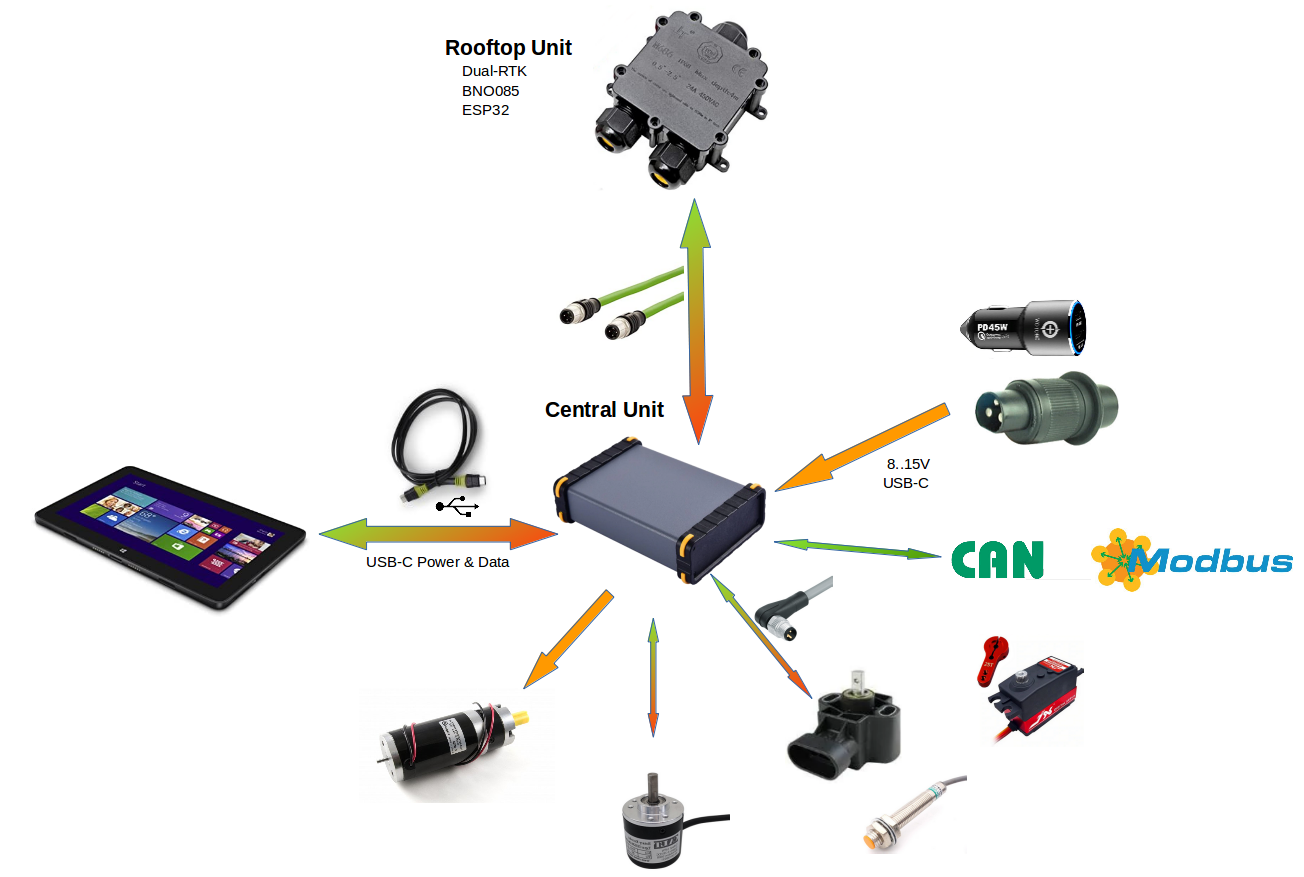
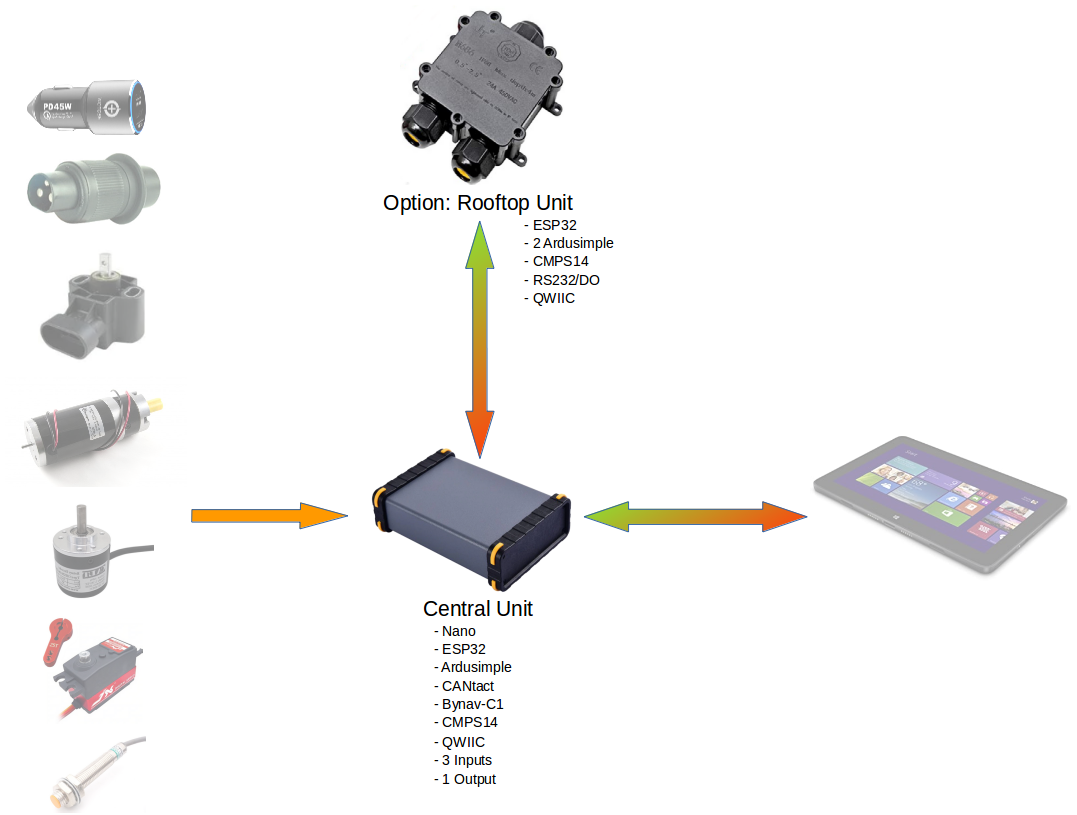
doc update

diff --git a/central_unit/README.md b/central_unit/README.md
@@ -1,0 +1,168 @@
+# Autosteer and RTK units for AgOpenGPS/QtOpenGuidance  
+Status: Draft - to be tested!
+
+These two PCBAs bring all electronic functions for autosteering with the ![AgOpenGPS](https://github.com/farmerbriantee/AgOpenGPS) / ![QtOpenGuidance](https://github.com/eringerli/QtOpenGuidance) project. The dual RTK-GNSS receiver, based on an idea of ![MTZ8302](https://github.com/mtz8302/AOG_GPS_ESP32), is a separate unit.
+
+![pic](Overview.png?raw=true)
+
+This setup does not include new functions but provides a robust, monolitic unit  that may be manufactured by professionel EMS providers. The central unit is compatible to [BrianTee‘s Nano firmware](https://github.com/farmerbriantee/AgOpenGPS/blob/master/Support_Files.zip) and the rooftop unit to [MTZ8302's dual-RTK firmware](https://github.com/mtz8302/AOG_GPS_ESP32). If the ESP32 option is used for the autosteer unit, the pin definitions of [esp32-aog](https://github.com/eringerli/esp32-aog) and [AOG_Autosteer_ESP32](https://github.com/mtz8302/AOG_Autosteer_ESP32) must be adapted.
+
+Special focus is given to the robust housing and industrial M12/M8 connetors (optional). PushIn connectors may also be used for single wire connections).
+
+![pic](central_unit/3D.png?raw=true)
+[Project link](https://oshwlab.com/GoRoNb/agopengps-main-box)
+# Functions in-cabin-unit for autosteering (all SMD + THT connectors)
+- integrated Arduino-Nano hardware
+- option for ESP32-Module (Arduino Firmware has to be adapted)
+- ADC (ADS1115) for wheel angle sensor (WAS)
+- roll sensor (MMA8452)
+- BNO085 option (as CMPS14 board)
+- motor driver (H-bridge of IBT-2) with 2-channel switch-off
+- current feedback from motor driver (may be used to quit autosteering on driver interaction)
+- 3 protected digital inputs (2oo3 usable as analog inputs on ESP32)
+- one optional digital protected 12V output
+- mounting holes for Ardusimple board(s)
+- mounting holes for rooftop unit board (for dual-RTK)
+- USB hub (4-port)
+- USB and power supply for tablet/notebook via one USB-C (external DC adapter needed)
+- integrated CANtact hardware (2x CAN2.0)
+- virtual serial port for RS485/ModbusRTU
+- many LEDs
+
+These #[connections](central_unit/Connections.pdf) are provided:
+- Supply 12V/24V (optional for motor)
+- USB-C to tablet/notebook
+- Wheel angle sensor (WAS)
+- Digital inputs
+- USB via M12-D cable to RTK-GNSS unit
+- Steering wheel motor / hydraulic unit
+- 2x CAN2.0
+- RS485/ModbusRTU
+- Incremental sensor for steering wheel
+- 2x USB-C (tablet + DC converter/Aux)
+- QWIIC connector
+- internal USB connectors
+
+----------------------------------------------------------------------------------------------------------------------------
+
+
+![pic](rooftop_unit/3D.png?raw=true)
+[Project link](https://easyeda.com/GoRoNb/autosteer-for-agopengps_copy_copy_copy_copy)
+# Functions roof top unit for positioning (only THT):
+- Dual RTK-GNSS receiver
+- BNO085 option (as CMPS14 board)
+- QWIIC connector
+- based on ESP32 [Thx to MTZ8302](https://github.com/mtz8302/AOG_GPS_ESP32) and ![Jeep1945](https://github.com/Jeep1945/Dualheading) (pinning taken from Jeep1945)
+- RS232 output option for sprayer (NMEA string output or speed pulse)
+- SPI connector for those who like to use an Ethernet shield
+- 3 LEDs, 2 key inputs
+
+# Functional Description (to be continued..)
+
+The Arduino part including roll sensor, ADC and digital inputs is a copy of what BrianTee sugested. Many thanks for his great work!
+
+An ESP32 MINI module is mountable alternatively. In that case, the Arduino firmware has to be adapted and the Nano has to send to reset mode by using a jumper (pins 5+6 of P1).   With an ESP32, one CAN2.0 and the RS485 port is usable e. g. for external relay modules via ModbusRTU. Wifi and Bluetooth may also be used.
+
+The motor driver is the one of the IBT-2. It comes with separated 2-channel power lines at the power plug, so that a double-pole switch with positively opening contacts may be used for safe switch-off. This is especially mandatory for hydraulic steering. Furthermore, a DCDC converter may be used to generate 24V for driving the common Phidgets-Motor with increased dynamic.
+
+The fifth pin of the power plug may either be used for a protected digital output (jumper on 1-2 of J8) or as on-switching signal (jumper on 2-3 of J8). No high currents have to be switched – a small SPST switch is ok. A switch inside the housing would be connected to 3-4 of J8. If an external switch is used to cut of the supply directly, apply a jumper to 2-3 of J8.
+
+All digital inputs are protected and made of constant current sinks. Therefore, the input is inverted, so that either NC pushbuttons may be used or the Arduino firmware may be modified.
+
+The hardware of the ![CANtact project](https://cantact.io/cantact-pro/users-guide.html) based on the Nexperia µC LPC54616 is optionally mountable and may provide two CAN2.0 ports under control of the tablet. One the two ports may alternativly driven by the ESP32.
+
+The RS485 port is like what is also available with a cheap USB-RS485 stick based on a CH340 driver. 
+
+The 4 port USB hub connects the tablet/Notebook to the RTK-GNSS receiver and to the Nano or ESP32, the CANtact hardware, the RS-485 port or the internal 2 USB-A socket or the external USB-C socket. These alternatives are possible:
+
+USB1:  Arduino Nano  (XOR)   ESP32 (if U3 not mounted.)
+
+USB2:    RS485      (XOR)     Internal USB-A (if U5 not mounted) (XOR)     External USB-C (if U5 not mounted)
+
+USB3:    CANtact   (XOR)      Internal USB-A (e. g. for ESP32 parallel to Nano)
+
+USB4:    External RTK receiver via M12-D
+
+All voltage and I/O functions are equipped with LEDs.
+
+Tablets with USB-C plug may be connected with a single USB-C wire for power and data, when a 12V USB-C DC converter is connected to the 2nd USB plug. Both USB-C plugs are mounted on a piggyback PCB on top of the M8 plugs.
+
+The PCB project was set up with the EDA program „EasyEDA“, which is freely usable. The Altium export has not been checked. 
+
+# (German copy) Zusammenfassung
+
+Dieser Leiterplattenentwurf integriert mit Ausnahme des RTK-GNSS-Empfängers alle elektronischen Funktionen, die für einen automatische Lenkung der Projekte AgOpenGPS und QtOpenGuidance notwendig sind. So ist es möglich, auch die zweikanalige RTK-Einheit von Matthias (MTZ8302) zu verwenden. Ziel war es nicht, neue Hardwarefunktionen bereitzustellen, sondern eine robuste, monolitische, von professionellen Bestückern herstellbaren Einheit zu entwicklern, auf der der aktuelle Stand der Arduino-Firmware von BrianTee kann unverändert verwendet werden. 
+
+Besonderer Wert wurde auf ein robustes Gehäuse und insbesondere robuste Steckverbinder und Kabel gelegt. Es sind M12/M8-Steckverbinder gerade oder abgewinkelt vorgesehen. Alternativ sind über auch steckbare PushIn-Steckverbinder bestückbar.
+
+Folgende Funktionen sind vorgesehen:
+- integrierte Arduino-Nano-Hardware
+- Option für ESP32-Leiterplatte (Arduino-Firmware muss angepasst werden)
+- ADC (ADS1115) für Lenkwinkelsensor
+- Neigungssensor (MMA8452)
+- Motortreiber (H-Brücke wie IBT-2) mit zweikanaliger Abschaltung
+- geschützte Digitaleingänge (als Konstantstromsenke)
+- USB-Hub (4-port)
+- Spannungsversorgung auch für Tablet/Notebook via USB-C
+- integrierte CANtact-Hardware (2x CAN2.0)
+- virtueller serieller Port für RS485/ModbusRTU
+- ganz viele Leuchtdioden
+
+Folgende Anschlüsse sind vorgesehen:
+- Stromversorgung 12V/24V (optional für Motor)
+- USB-C zu Tablet/Notebook
+- Lenkwinkelsensor
+- Digitaleingänge
+- USB via M12-D - Kabel zu RTK-GNSS-Einheit
+- Lenkradmotor bzw. Hydraulikeinheit
+- 2x CAN2.0
+- RS485/ModbusRTU
+- Inkrementalgeber für Lenkradsensor
+- 2x USB-C (Tablet + DC-Wandler/Aux)
+
+# Im Detail (wird fortlaufend ergänzt)
+
+Der Arduino-Nano-Teil einschließlich der Neigungssensoren, des ADC und der Eingänge entspricht dem von BrianTee entwickelten Schaltplan. An dieser Stelle sei ihm für seine hervorragende Arbeit gedankt!
+
+Eine ESP32-Leiterplatte ist alternativ bestückbar. In diesem Fall muss die Arduino-Software angepasst werden und der Nano dauerhaft im Reset-Zustand gehalten werden (Jumper auf 5, 6 von P1). Mit einem ESP32 steht dann hardwaremäßig auch ein CAN2.0 und ein RS485-Port zur Verfügung sowie Wifi und Bluetooth.
+
+Der Motortreiber entspricht dem IBT-2. Er verfügt über eine getrennte, zweikanalig ausgeführte Stromversorgung am Spannungsversorgungsstecker, sodass hier ein geeigneter zweikanaliger zwangsöffnender Sicherheitsschalter angeschlossen werden kann. Insbesondere bei Hydraulikeinbindung ist dies zwingend. Auch kann so ein DC/DC-Wandler 12V > 24V vorgeschaltet werden, um eine höhere Lenkdynamik z. B. für den beliebten Phidgets-Motor zu erreichen.
+
+Die 5. Leitung des Spannungsversorgungssteckers kann entweder mit einem geschützten Digitalausgang belegt werden (Jumper auf 1-2 von J8) oder für den Ein-Schalter verwendet werden (Jumper auf 2-3 von J8). Es wird keine Leistung geschaltet – ein kleiner Schalter reicht. Ein Schalter im Gehäuse wird an die 3-4 von J8 angeschlossen. Wird ein externer Leistungsschalter verwendet, müssen diese Kontakte mit einem Jumper überbrückt werden.
+
+Die Digitaleingänge sind als Konstantstromsenke ausgeführt. Dadurch ist die Logik allerdings invertiert, also bitte Öffnerkontakte verwenden oder die Arduino-Firmware entsprechend anpassen.
+
+Die Hardware des [CANtact-Projektes](https://cantact.io/cantact-pro/users-guide.html) auf Basis des Nexperia-µC LPC54616 ist optional bestückbar und stellt dann 2 CAN2.0-Schnittstellen zur Verfügung. Eine der beiden CAN2.0-Schnittstellen kann alternativ auch mit dem ESP32 angesteuert werden.
+
+Die RS-485-Schnittstelle entspricht dem, was ein preiswerter USB-RS485-Stick auf Basis einen CH340 leistet. 
+
+Der 4-Port-USB-Hub verbindet das Tablet/Notebook zum RTK-GNSS-Empfänger und wahlweise zum Nano bzw. ESP32, der CANtact-Hardware, der RS-485-Schnittstelle bzw. internen 2 USB-A-Buchsen einer externen USB-C-Buchse. Folgende Alternativen sind mit den 4 Ports möglich:
+
+USB1:    Arduino Nano   (XOR)   ESP32 (wenn U3 nicht bestückt)
+
+USB2:    RS485       (XOR)      Interne USB-A (wenn U5 nicht bestückt)   (XOR) Externe USB-C (wenn U5 nicht bestückt)
+
+USB3:    CANtact  (XOR)         Interne USB-A (z. B. für ESP32 plus Nano)
+
+USB4:    RTK-Empfänger
+
+Alle Spannungen und I/O-Funktionen verfügen über Leuchtdioden.
+
+Tablets mit USB-C-Schnittstelle können mit einem einzigen Kabel für Daten und Stromversorgung angeschlossen werden, wenn ein 12V-USB-C-Ladeadapter an die zweite USB-C-Buchse angeschlossen wird. Die beiden USB-C-Buchsen sind auf Huckepack-Leiterplatten über den M8-Steckverbindern angeordnet.
+
+Das Leiterplattenprojekt wurde im frei verfügbaren EDA-Programm „EasyEDA“ erstellt. Der Export nach Altium ist ungeprüft. 
+
+# Component Sources (examples):
+
+M12/M8:	    [digikey](https://www.digikey.com), [Reichelt](https://www.reichelt.de/de/en/sensor-actor-connectors-c7505.html?MANUFACTURER=CONEC&START=0&OFFSET=16&LANGUAGE=EN&&r=1)
+
+PushIn:		  Weidmueller [S2C-SMT 3.50/04/180G 3.5SN BK BX](https://catalog.weidmueller.com/catalog/Start.do?localeId=en&ObjectID=1290030000) + [B2CF 3.50/04/180 SN OR BX](https://catalog.weidmueller.com/catalog/Start.do?localeId=en&ObjectID=1277270000) via [Conrad](https://www.conrad.com)/[digikey](https://www.digikey.com)
+
+ESP32 MINI:	[Aliexpress](https://de.aliexpress.com/wholesale?catId=0&SearchText=esp32+mini)
+
+Housing Central Unit: [Aliexpress](https://de.aliexpress.com/item/32967598546.html)
+
+Housing Rooftop Unit: [Amazon](http://www.amazon.de/dp/B076KJZJN5/)
+
+RTK receiver: [GNSS store](https://www.gnss.store/gnss-gps-modules/105-ublox-zed-f9p-rtk-gnss-receiver-board-with-sma-base-or-rover.html)
+

diff --git a/rooftop_unit/README.md b/rooftop_unit/README.md
@@ -1,0 +1,168 @@
+# Autosteer and RTK units for AgOpenGPS/QtOpenGuidance  
+Status: Draft - to be tested!
+
+These two PCBAs bring all electronic functions for autosteering with the ![AgOpenGPS](https://github.com/farmerbriantee/AgOpenGPS) / ![QtOpenGuidance](https://github.com/eringerli/QtOpenGuidance) project. The dual RTK-GNSS receiver, based on an idea of ![MTZ8302](https://github.com/mtz8302/AOG_GPS_ESP32), is a separate unit.
+
+![pic](Overview.png?raw=true)
+
+This setup does not include new functions but provides a robust, monolitic unit  that may be manufactured by professionel EMS providers. The central unit is compatible to [BrianTee‘s Nano firmware](https://github.com/farmerbriantee/AgOpenGPS/blob/master/Support_Files.zip) and the rooftop unit to [MTZ8302's dual-RTK firmware](https://github.com/mtz8302/AOG_GPS_ESP32). If the ESP32 option is used for the autosteer unit, the pin definitions of [esp32-aog](https://github.com/eringerli/esp32-aog) and [AOG_Autosteer_ESP32](https://github.com/mtz8302/AOG_Autosteer_ESP32) must be adapted.
+
+Special focus is given to the robust housing and industrial M12/M8 connetors (optional). PushIn connectors may also be used for single wire connections).
+
+![pic](central_unit/3D.png?raw=true)
+[Project link](https://oshwlab.com/GoRoNb/agopengps-main-box)
+# Functions in-cabin-unit for autosteering (all SMD + THT connectors)
+- integrated Arduino-Nano hardware
+- option for ESP32-Module (Arduino Firmware has to be adapted)
+- ADC (ADS1115) for wheel angle sensor (WAS)
+- roll sensor (MMA8452)
+- BNO085 option (as CMPS14 board)
+- motor driver (H-bridge of IBT-2) with 2-channel switch-off
+- current feedback from motor driver (may be used to quit autosteering on driver interaction)
+- 3 protected digital inputs (2oo3 usable as analog inputs on ESP32)
+- one optional digital protected 12V output
+- mounting holes for Ardusimple board(s)
+- mounting holes for rooftop unit board (for dual-RTK)
+- USB hub (4-port)
+- USB and power supply for tablet/notebook via one USB-C (external DC adapter needed)
+- integrated CANtact hardware (2x CAN2.0)
+- virtual serial port for RS485/ModbusRTU
+- many LEDs
+
+These #[connections](central_unit/Connections.pdf) are provided:
+- Supply 12V/24V (optional for motor)
+- USB-C to tablet/notebook
+- Wheel angle sensor (WAS)
+- Digital inputs
+- USB via M12-D cable to RTK-GNSS unit
+- Steering wheel motor / hydraulic unit
+- 2x CAN2.0
+- RS485/ModbusRTU
+- Incremental sensor for steering wheel
+- 2x USB-C (tablet + DC converter/Aux)
+- QWIIC connector
+- internal USB connectors
+
+----------------------------------------------------------------------------------------------------------------------------
+
+
+![pic](rooftop_unit/3D.png?raw=true)
+[Project link](https://easyeda.com/GoRoNb/autosteer-for-agopengps_copy_copy_copy_copy)
+# Functions roof top unit for positioning (only THT):
+- Dual RTK-GNSS receiver
+- BNO085 option (as CMPS14 board)
+- QWIIC connector
+- based on ESP32 [Thx to MTZ8302](https://github.com/mtz8302/AOG_GPS_ESP32) and ![Jeep1945](https://github.com/Jeep1945/Dualheading) (pinning taken from Jeep1945)
+- RS232 output option for sprayer (NMEA string output or speed pulse)
+- SPI connector for those who like to use an Ethernet shield
+- 3 LEDs, 2 key inputs
+
+# Functional Description (to be continued..)
+
+The Arduino part including roll sensor, ADC and digital inputs is a copy of what BrianTee sugested. Many thanks for his great work!
+
+An ESP32 MINI module is mountable alternatively. In that case, the Arduino firmware has to be adapted and the Nano has to send to reset mode by using a jumper (pins 5+6 of P1).   With an ESP32, one CAN2.0 and the RS485 port is usable e. g. for external relay modules via ModbusRTU. Wifi and Bluetooth may also be used.
+
+The motor driver is the one of the IBT-2. It comes with separated 2-channel power lines at the power plug, so that a double-pole switch with positively opening contacts may be used for safe switch-off. This is especially mandatory for hydraulic steering. Furthermore, a DCDC converter may be used to generate 24V for driving the common Phidgets-Motor with increased dynamic.
+
+The fifth pin of the power plug may either be used for a protected digital output (jumper on 1-2 of J8) or as on-switching signal (jumper on 2-3 of J8). No high currents have to be switched – a small SPST switch is ok. A switch inside the housing would be connected to 3-4 of J8. If an external switch is used to cut of the supply directly, apply a jumper to 2-3 of J8.
+
+All digital inputs are protected and made of constant current sinks. Therefore, the input is inverted, so that either NC pushbuttons may be used or the Arduino firmware may be modified.
+
+The hardware of the ![CANtact project](https://cantact.io/cantact-pro/users-guide.html) based on the Nexperia µC LPC54616 is optionally mountable and may provide two CAN2.0 ports under control of the tablet. One the two ports may alternativly driven by the ESP32.
+
+The RS485 port is like what is also available with a cheap USB-RS485 stick based on a CH340 driver. 
+
+The 4 port USB hub connects the tablet/Notebook to the RTK-GNSS receiver and to the Nano or ESP32, the CANtact hardware, the RS-485 port or the internal 2 USB-A socket or the external USB-C socket. These alternatives are possible:
+
+USB1:  Arduino Nano  (XOR)   ESP32 (if U3 not mounted.)
+
+USB2:    RS485      (XOR)     Internal USB-A (if U5 not mounted) (XOR)     External USB-C (if U5 not mounted)
+
+USB3:    CANtact   (XOR)      Internal USB-A (e. g. for ESP32 parallel to Nano)
+
+USB4:    External RTK receiver via M12-D
+
+All voltage and I/O functions are equipped with LEDs.
+
+Tablets with USB-C plug may be connected with a single USB-C wire for power and data, when a 12V USB-C DC converter is connected to the 2nd USB plug. Both USB-C plugs are mounted on a piggyback PCB on top of the M8 plugs.
+
+The PCB project was set up with the EDA program „EasyEDA“, which is freely usable. The Altium export has not been checked. 
+
+# (German copy) Zusammenfassung
+
+Dieser Leiterplattenentwurf integriert mit Ausnahme des RTK-GNSS-Empfängers alle elektronischen Funktionen, die für einen automatische Lenkung der Projekte AgOpenGPS und QtOpenGuidance notwendig sind. So ist es möglich, auch die zweikanalige RTK-Einheit von Matthias (MTZ8302) zu verwenden. Ziel war es nicht, neue Hardwarefunktionen bereitzustellen, sondern eine robuste, monolitische, von professionellen Bestückern herstellbaren Einheit zu entwicklern, auf der der aktuelle Stand der Arduino-Firmware von BrianTee kann unverändert verwendet werden. 
+
+Besonderer Wert wurde auf ein robustes Gehäuse und insbesondere robuste Steckverbinder und Kabel gelegt. Es sind M12/M8-Steckverbinder gerade oder abgewinkelt vorgesehen. Alternativ sind über auch steckbare PushIn-Steckverbinder bestückbar.
+
+Folgende Funktionen sind vorgesehen:
+- integrierte Arduino-Nano-Hardware
+- Option für ESP32-Leiterplatte (Arduino-Firmware muss angepasst werden)
+- ADC (ADS1115) für Lenkwinkelsensor
+- Neigungssensor (MMA8452)
+- Motortreiber (H-Brücke wie IBT-2) mit zweikanaliger Abschaltung
+- geschützte Digitaleingänge (als Konstantstromsenke)
+- USB-Hub (4-port)
+- Spannungsversorgung auch für Tablet/Notebook via USB-C
+- integrierte CANtact-Hardware (2x CAN2.0)
+- virtueller serieller Port für RS485/ModbusRTU
+- ganz viele Leuchtdioden
+
+Folgende Anschlüsse sind vorgesehen:
+- Stromversorgung 12V/24V (optional für Motor)
+- USB-C zu Tablet/Notebook
+- Lenkwinkelsensor
+- Digitaleingänge
+- USB via M12-D - Kabel zu RTK-GNSS-Einheit
+- Lenkradmotor bzw. Hydraulikeinheit
+- 2x CAN2.0
+- RS485/ModbusRTU
+- Inkrementalgeber für Lenkradsensor
+- 2x USB-C (Tablet + DC-Wandler/Aux)
+
+# Im Detail (wird fortlaufend ergänzt)
+
+Der Arduino-Nano-Teil einschließlich der Neigungssensoren, des ADC und der Eingänge entspricht dem von BrianTee entwickelten Schaltplan. An dieser Stelle sei ihm für seine hervorragende Arbeit gedankt!
+
+Eine ESP32-Leiterplatte ist alternativ bestückbar. In diesem Fall muss die Arduino-Software angepasst werden und der Nano dauerhaft im Reset-Zustand gehalten werden (Jumper auf 5, 6 von P1). Mit einem ESP32 steht dann hardwaremäßig auch ein CAN2.0 und ein RS485-Port zur Verfügung sowie Wifi und Bluetooth.
+
+Der Motortreiber entspricht dem IBT-2. Er verfügt über eine getrennte, zweikanalig ausgeführte Stromversorgung am Spannungsversorgungsstecker, sodass hier ein geeigneter zweikanaliger zwangsöffnender Sicherheitsschalter angeschlossen werden kann. Insbesondere bei Hydraulikeinbindung ist dies zwingend. Auch kann so ein DC/DC-Wandler 12V > 24V vorgeschaltet werden, um eine höhere Lenkdynamik z. B. für den beliebten Phidgets-Motor zu erreichen.
+
+Die 5. Leitung des Spannungsversorgungssteckers kann entweder mit einem geschützten Digitalausgang belegt werden (Jumper auf 1-2 von J8) oder für den Ein-Schalter verwendet werden (Jumper auf 2-3 von J8). Es wird keine Leistung geschaltet – ein kleiner Schalter reicht. Ein Schalter im Gehäuse wird an die 3-4 von J8 angeschlossen. Wird ein externer Leistungsschalter verwendet, müssen diese Kontakte mit einem Jumper überbrückt werden.
+
+Die Digitaleingänge sind als Konstantstromsenke ausgeführt. Dadurch ist die Logik allerdings invertiert, also bitte Öffnerkontakte verwenden oder die Arduino-Firmware entsprechend anpassen.
+
+Die Hardware des [CANtact-Projektes](https://cantact.io/cantact-pro/users-guide.html) auf Basis des Nexperia-µC LPC54616 ist optional bestückbar und stellt dann 2 CAN2.0-Schnittstellen zur Verfügung. Eine der beiden CAN2.0-Schnittstellen kann alternativ auch mit dem ESP32 angesteuert werden.
+
+Die RS-485-Schnittstelle entspricht dem, was ein preiswerter USB-RS485-Stick auf Basis einen CH340 leistet. 
+
+Der 4-Port-USB-Hub verbindet das Tablet/Notebook zum RTK-GNSS-Empfänger und wahlweise zum Nano bzw. ESP32, der CANtact-Hardware, der RS-485-Schnittstelle bzw. internen 2 USB-A-Buchsen einer externen USB-C-Buchse. Folgende Alternativen sind mit den 4 Ports möglich:
+
+USB1:    Arduino Nano   (XOR)   ESP32 (wenn U3 nicht bestückt)
+
+USB2:    RS485       (XOR)      Interne USB-A (wenn U5 nicht bestückt)   (XOR) Externe USB-C (wenn U5 nicht bestückt)
+
+USB3:    CANtact  (XOR)         Interne USB-A (z. B. für ESP32 plus Nano)
+
+USB4:    RTK-Empfänger
+
+Alle Spannungen und I/O-Funktionen verfügen über Leuchtdioden.
+
+Tablets mit USB-C-Schnittstelle können mit einem einzigen Kabel für Daten und Stromversorgung angeschlossen werden, wenn ein 12V-USB-C-Ladeadapter an die zweite USB-C-Buchse angeschlossen wird. Die beiden USB-C-Buchsen sind auf Huckepack-Leiterplatten über den M8-Steckverbindern angeordnet.
+
+Das Leiterplattenprojekt wurde im frei verfügbaren EDA-Programm „EasyEDA“ erstellt. Der Export nach Altium ist ungeprüft. 
+
+# Component Sources (examples):
+
+M12/M8:	    [digikey](https://www.digikey.com), [Reichelt](https://www.reichelt.de/de/en/sensor-actor-connectors-c7505.html?MANUFACTURER=CONEC&START=0&OFFSET=16&LANGUAGE=EN&&r=1)
+
+PushIn:		  Weidmueller [S2C-SMT 3.50/04/180G 3.5SN BK BX](https://catalog.weidmueller.com/catalog/Start.do?localeId=en&ObjectID=1290030000) + [B2CF 3.50/04/180 SN OR BX](https://catalog.weidmueller.com/catalog/Start.do?localeId=en&ObjectID=1277270000) via [Conrad](https://www.conrad.com)/[digikey](https://www.digikey.com)
+
+ESP32 MINI:	[Aliexpress](https://de.aliexpress.com/wholesale?catId=0&SearchText=esp32+mini)
+
+Housing Central Unit: [Aliexpress](https://de.aliexpress.com/item/32967598546.html)
+
+Housing Rooftop Unit: [Amazon](http://www.amazon.de/dp/B076KJZJN5/)
+
+RTK receiver: [GNSS store](https://www.gnss.store/gnss-gps-modules/105-ublox-zed-f9p-rtk-gnss-receiver-board-with-sma-base-or-rover.html)
+
